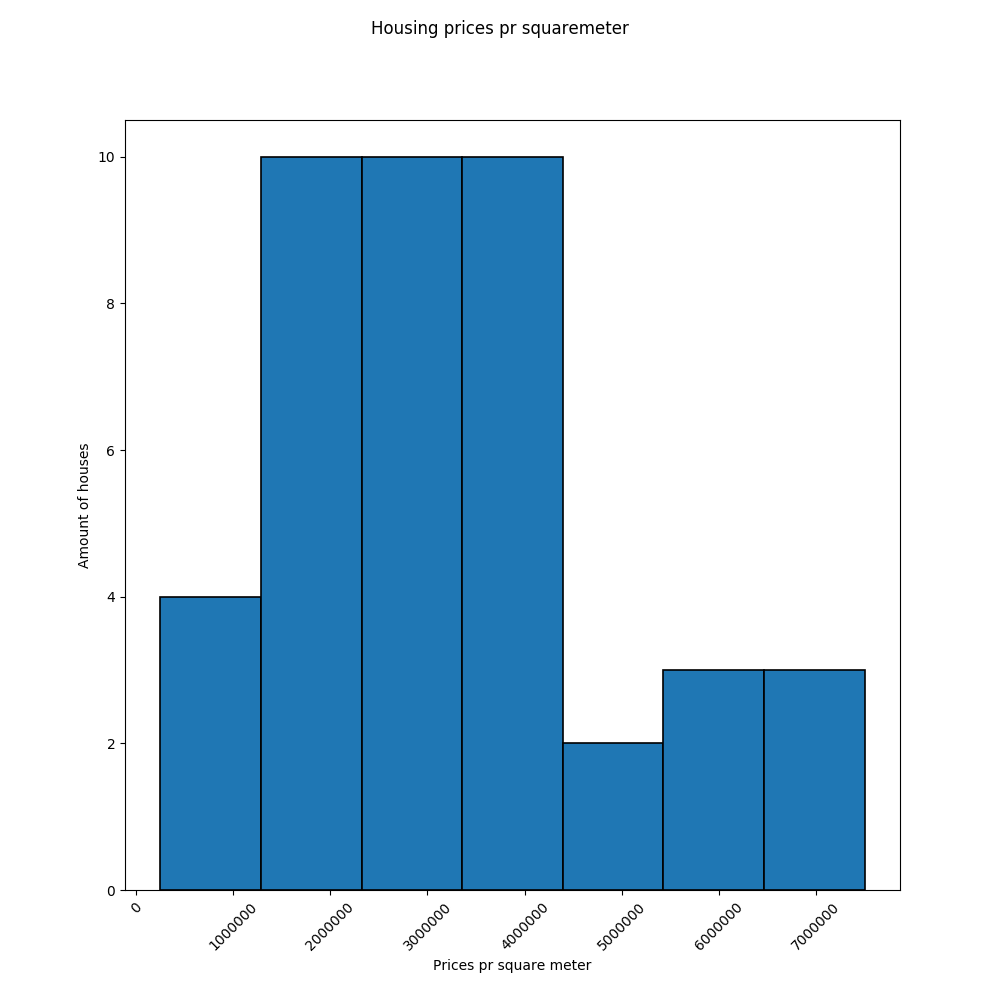
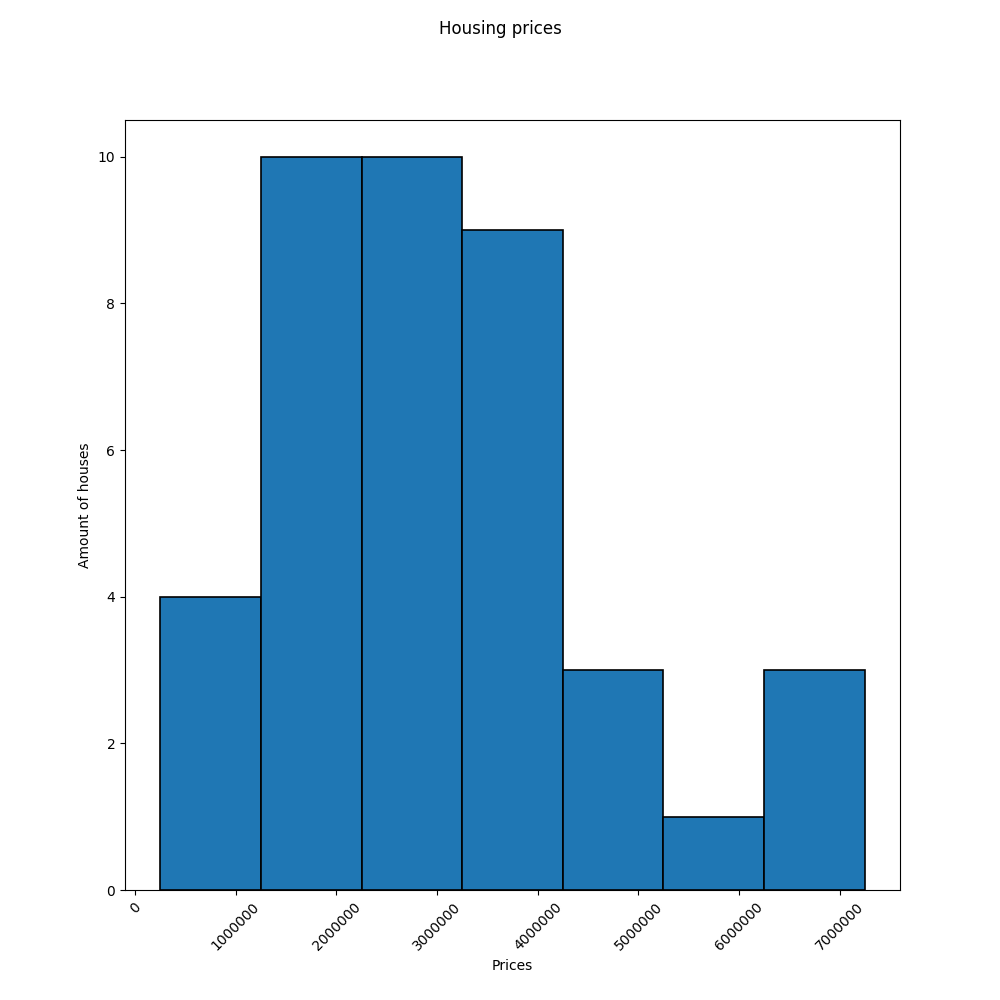
changes to the histogram

diff --git a/assignment-1/assignment_1.py b/assignment-1/assignment_1.py
@@ -96,18 +96,20 @@ def generate_plot(data):
 def generate_histogram(data):
     #Unpacks the data from data. This is posible because data is a tuple.
     indx, prices = zip(*data)
+    prices = list(prices)
+    print('minimum: ',min(prices),', max: ',max(prices))
     #Set the figure size.
     fig = plt.figure(figsize=(10, 10))
     #Set figure title
-    fig.suptitle('Housing prices pr squaremeter')
+    fig.suptitle('Housing prices')
     # Rotate the x label values by 45 degrees.
     plt.xticks(rotation=45)
     # Add y label.
     plt.ylabel('Amount of houses')
-    plt.xlabel('Prices pr square meter')
+    plt.xlabel('Prices')
     #Generetaes the histogram with a edgecolor of black and a linewidth of 1.2.
     #The histogram uses 7 bins.
-    plt.hist(prices,bins = 7,edgecolor='black', linewidth=1.2)
+    plt.hist(prices,bins=range(250000,8000000,1000000),edgecolor='black', linewidth=1.2)
     fig.savefig('./prices-hist.png')
 
 def run():

diff --git a/assignment-1/README.md b/assignment-1/README.md
@@ -10,11 +10,11 @@
    
 ### price_list.csv
 
-Is a csv file that contains multiple rows of information about many different appartments. Each row contains a "Street", "City", "Price", "Sqm" and "Price pr sqm"
+Is a csv file that contains multiple rows of information about many different appartments and what they are valued at. Each row contains a "Street", "City", "Price", "Sqm" and "Price pr sqm"
 
 ### price_list.txt
 
-Is a txt file that contains multiple rows of information about many different appartments. Each row contains a "Street", "City", "Price", "Sqm" and "Price pr sqm"
+Is a txt file that contains multiple rows of information about many different appartments and what they are valued at. Each row contains a "Street", "City", "Price", "Sqm" and "Price pr sqm"
 
 ### avg_price.txt
 
@@ -47,5 +47,7 @@ def generate_histogram(data):
 ```
 
 ## Write (text) a sentence into the assignment_1.py about the result of the histogram.
+
+This histogram show us that 30 appartments are listed at a price point between 1250000 - 4250000. This is 71,4 % of the houses from the dataset.
 
 ![](prices-hist.png?raw=true)
